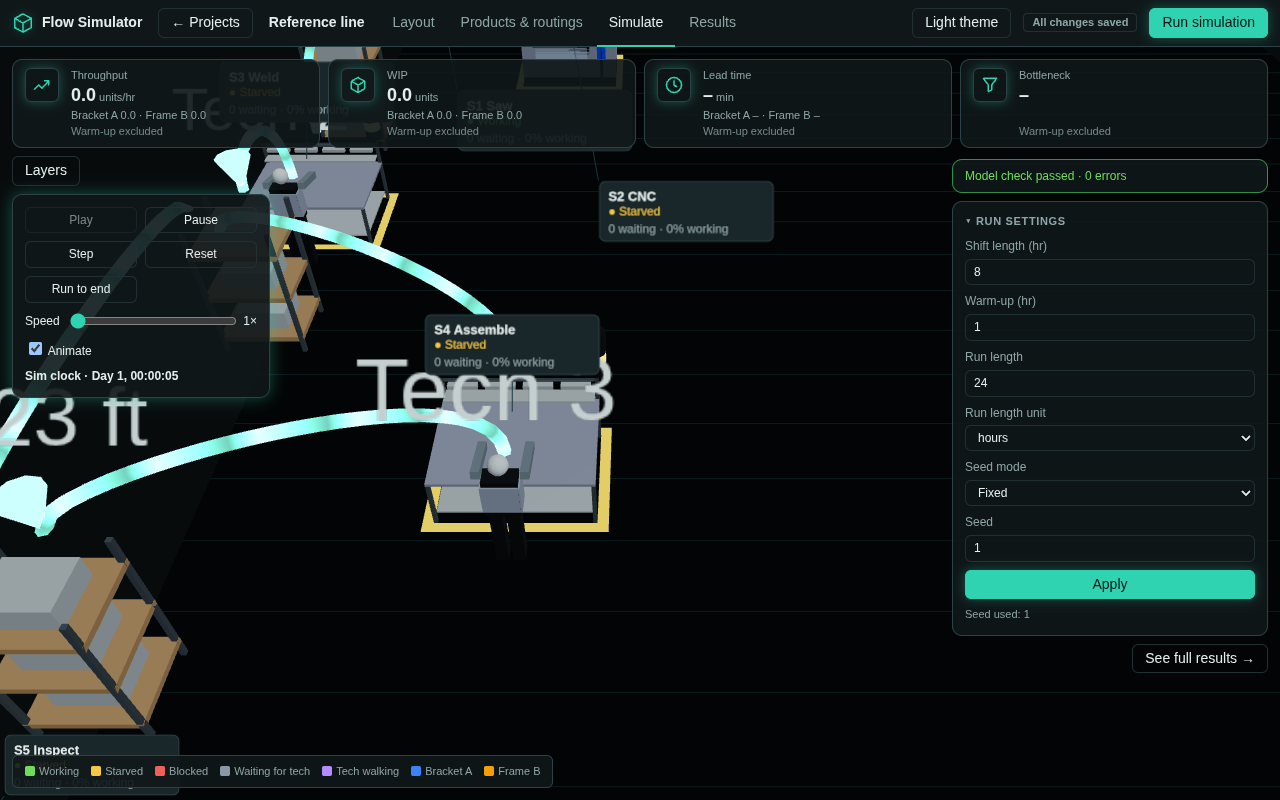
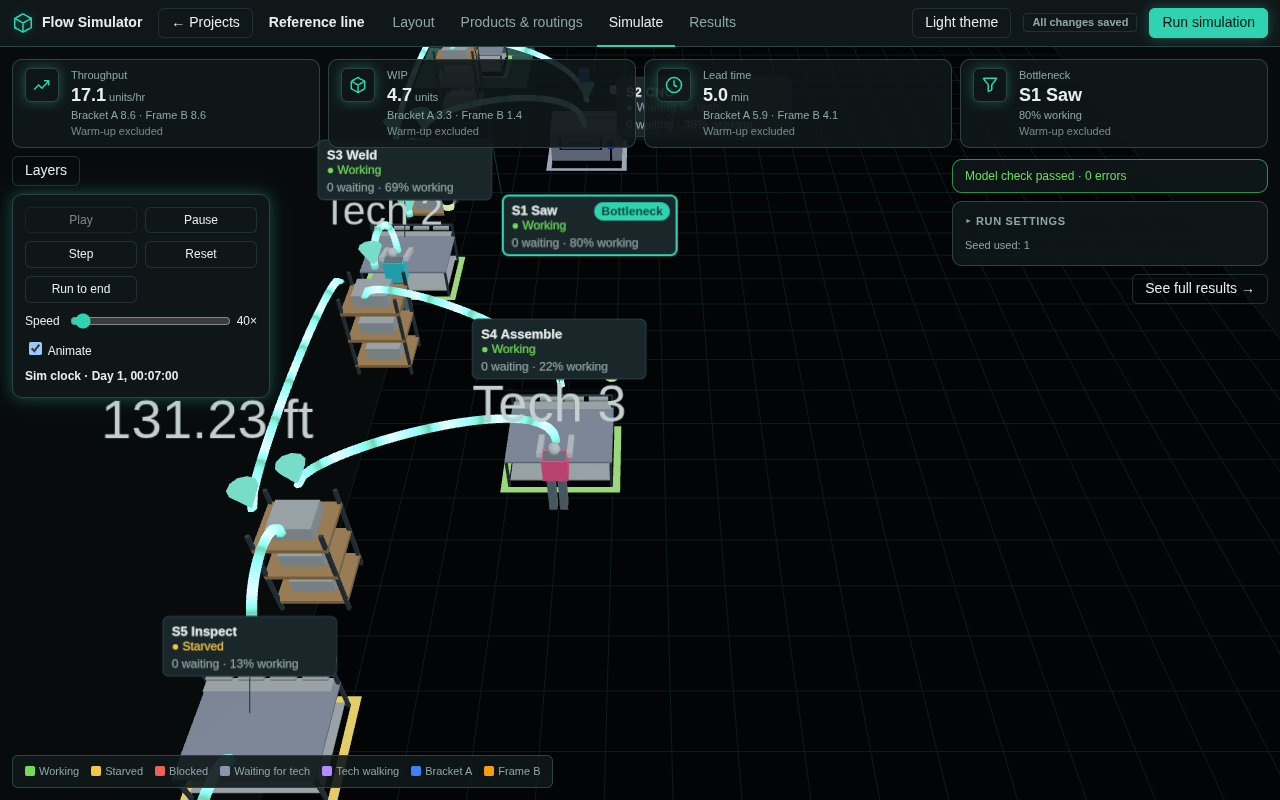
SF-2: per-tech vest colour from a theme palette, lighter body neutrals, new screenshots

diff --git a/apps/web/src/simulation/SF-2.test.ts b/apps/web/src/simulation/SF-2.test.ts
@@ -2,7 +2,8 @@ import { describe, expect, it } from 'vitest';
 import { createEditorStore } from '../layout/editorStore';
 import { buildLineGeometry } from './partTracks';
 import { createTechTracks } from './techTracks';
-import { figureTriangleCount, limbAngles } from './techFigure';
+import { figureTriangleCount, limbAngles, techColor } from './techFigure';
+import { dark, light } from '../ui/tokens';
 
 /** One bench, two stations 12 m apart, `n` techs all assigned to the first bench. */
 function setup(n: number) {
@@ -43,6 +44,25 @@ function inside(
   const lz = -dx * sn + dz * c;
   return Math.abs(lx) < e.footprint.width / 2 && Math.abs(lz) < e.footprint.length / 2;
 }
+
+describe('SF-2: technician colours', () => {
+  it('distinct techs get distinct, run-stable vest colours from the theme palette', () => {
+    for (const theme of [dark, light]) {
+      const cols = [0, 1, 2, 3].map((i) => techColor(theme.scene.techs, i));
+      expect(new Set(cols).size).toBe(4);
+      expect(cols).toEqual([0, 1, 2, 3].map((i) => techColor(theme.scene.techs, i)));
+      expect(
+        theme.scene.techs.every((c) => !Object.values(theme.state).some((s) => s.strong === c)),
+      ).toBe(true);
+    }
+    const { geometry, techs } = setup(3);
+    expect(
+      createTechTracks(geometry, techs)
+        .at(0)
+        .map((p) => p.order),
+    ).toEqual([0, 1, 2]);
+  });
+});
 
 describe('SF-2: technician figure at the bench', () => {
   it('AC1: a figure is within 1,500 triangles', () => {
@@ -108,12 +128,17 @@ describe('SF-2: technician figure at the bench', () => {
         expect(Math.hypot(poses[i]!.x - poses[j]!.x, poses[i]!.z - poses[j]!.z)).toBeGreaterThan(
           0.5,
         );
-    // Along the front edge: all at the same distance from the bench, same heading.
-    const d = poses.map((p) => Math.hypot(p.x - bench.position.x, p.z - bench.position.y));
-    const along = poses.map((p) => (p.x - poses[0]!.x) ** 2 + (p.z - poses[0]!.z) ** 2);
-    expect(along.every((v) => Number.isFinite(v))).toBe(true);
+    // Along the front edge: same offset from the bench in its own frame, different positions along it.
+    const local = poses.map((p) => {
+      const dx = p.x - bench.position.x;
+      const dz = p.z - bench.position.y;
+      const c = Math.cos(bench.rotation);
+      const sn = Math.sin(bench.rotation);
+      return { x: dx * c + dz * sn, z: -dx * sn + dz * c };
+    });
+    for (const l of local) expect(l.z).toBeCloseTo(local[0]!.z, 6);
+    expect(new Set(local.map((l) => l.x.toFixed(3))).size).toBe(3);
     expect(new Set(poses.map((p) => p.heading.toFixed(6))).size).toBe(1);
-    expect(Math.max(...d) - Math.min(...d)).toBeLessThan(1.2);
   });
 
   it('AC5: poses are a pure function of sim time, so animation off/on restores them', () => {

diff --git a/apps/web/src/simulation/TechLayer.tsx b/apps/web/src/simulation/TechLayer.tsx
@@ -4,7 +4,7 @@ import * as THREE from 'three';
 import { TextLabel } from '../layout/FloorScene';
 import type { RunSession } from './runSession';
 import { getTheme } from '../ui/themeStore';
-import { createFigureGeometries, FIGURE, limbAngles } from './techFigure';
+import { createFigureGeometries, FIGURE, limbAngles, techColor } from './techFigure';
 
 const BODY_HEIGHT = 1.7;
 const LABEL_HEIGHT = 1.1;
@@ -55,7 +55,7 @@ function TechFigures({ session, ids }: { session: RunSession; ids: string[] }) {
     const { head, torso, vest, arm, leg } = refs;
     if (!head.current || !torso.current || !vest.current || !arm.current || !leg.current) return;
     const poses = new Map(session.techPoses(session.now).map((p) => [p.techId, p]));
-    const { state, scene } = getTheme();
+    const { scene } = getTheme();
     ids.forEach((id, i) => {
       const pose = poses.get(id);
       if (!pose) {
@@ -82,10 +82,7 @@ function TechFigures({ session, ids }: { session: RunSession; ids: string[] }) {
       swing(arm.current!, 2 * i + 1, FIGURE.armX, FIGURE.shoulderY, limbs.armR);
       swing(leg.current!, 2 * i, -FIGURE.legX, FIGURE.hipY, limbs.legL);
       swing(leg.current!, 2 * i + 1, FIGURE.legX, FIGURE.hipY, limbs.legR);
-      vest.current!.setColorAt(
-        i,
-        color.set(pose.state === 'walking' ? state.walking.strong : state.waiting.strong),
-      );
+      vest.current!.setColorAt(i, color.set(techColor(scene.techs, pose.order)));
     });
     for (const m of [head, torso, vest, arm, leg]) {
       m.current!.instanceMatrix.needsUpdate = true;
@@ -97,9 +94,9 @@ function TechFigures({ session, ids }: { session: RunSession; ids: string[] }) {
     // The vest's colour comes per instance; its material stays white so it isn't tinted twice.
     (vest.current.material as THREE.MeshStandardMaterial).color.setRGB(1, 1, 1);
     paint(head.current, scene.parts.accent);
-    paint(torso.current, scene.parts.dark);
-    paint(arm.current, scene.parts.frame);
-    paint(leg.current, scene.parts.dark);
+    paint(torso.current, scene.parts.frame);
+    paint(arm.current, scene.parts.accent);
+    paint(leg.current, scene.parts.frame);
   });
 
   const { scene } = getTheme();

diff --git a/apps/web/src/simulation/techTracks.ts b/apps/web/src/simulation/techTracks.ts
@@ -4,6 +4,8 @@ import type { LineGeometry, Pt } from './partTracks';
 export interface TechPose {
   techId: string;
   name: string;
+  /** Position in the project's technician list: picks the tech's colour. */
+  order: number;
   x: number;
   z: number;
   state: 'walking' | 'standing';
@@ -33,6 +35,7 @@ export interface TechInfo {
 
 interface Track {
   info: TechInfo;
+  order: number;
   /** Station it stands at before its first recorded walk; changed by `seed`. */
   baseId: string | undefined;
   /** Walks in time order; between them the tech stands where the last one ended. */
@@ -47,8 +50,12 @@ export function createTechTracks(geometry: LineGeometry, techs: readonly TechInf
   // A tech with no station has nowhere to be drawn.
   const tracks = new Map<string, Track>(
     techs
-      .filter((info) => info.homeId !== undefined)
-      .map((info) => [info.id, { info, baseId: info.homeId, walks: [], cursor: 0 }]),
+      .map((info, order) => ({ info, order }))
+      .filter(({ info }) => info.homeId !== undefined)
+      .map(({ info, order }) => [
+        info.id,
+        { info, order, baseId: info.homeId, walks: [], cursor: 0 },
+      ]),
   );
   // Techs sharing a bench take fixed spots along its front edge, so nobody overlaps and the
   // spot doesn't change while others walk away.
@@ -115,7 +122,7 @@ export function createTechTracks(geometry: LineGeometry, techs: readonly TechInf
         while (i < walks.length && walks[i]!.t <= t) i++;
         tr.cursor = i;
         const last = walks[i - 1];
-        const base = { techId: tr.info.id, name: tr.info.name };
+        const base = { techId: tr.info.id, name: tr.info.name, order: tr.order };
         if (last && t < last.t1) {
           const dx = last.to.x - last.from.x;
           const dz = last.to.z - last.from.z;

diff --git a/apps/web/src/simulation/techFigure.ts b/apps/web/src/simulation/techFigure.ts
@@ -26,6 +26,11 @@ export function limbAngles(pose: Pick<TechPose, 'state' | 'walked'>): LimbAngles
   return { legL: LEG_SWING * s, legR: -LEG_SWING * s, armL: -ARM_SWING * s, armR: ARM_SWING * s };
 }
 
+/** A tech's vest colour: a fixed palette by order in the project, so it is stable across runs. */
+export function techColor(palette: readonly string[], order: number): string {
+  return palette[order % palette.length]!;
+}
+
 /** Body dimensions (m). The figure is ~1.7 m tall and faces +z at heading 0. */
 export const FIGURE = {
   hipY: 0.85,
@@ -45,7 +50,7 @@ export function createFigureGeometries() {
     head: new THREE.SphereGeometry(0.12, 10, 8).translate(0, FIGURE.headY, 0),
     torso: new THREE.BoxGeometry(0.4, 0.55, 0.22).translate(0, 1.125, 0),
     // The vest sits just proud of the torso so its colour reads from front, back and sides.
-    vest: new THREE.BoxGeometry(0.44, 0.4, 0.26).translate(0, 1.13, 0),
+    vest: new THREE.BoxGeometry(0.46, 0.52, 0.28).translate(0, 1.125, 0),
     arm: limb(0.1, FIGURE.armLength, 0.1),
     leg: limb(0.15, FIGURE.legLength, 0.17),
   };

diff --git a/apps/web/src/ui/tokens.ts b/apps/web/src/ui/tokens.ts
@@ -36,6 +36,8 @@ export interface Theme {
     flow: string;
     /** Equipment parts that aren't the equipment's own colour (materials roles frame, accent, dark). */
     parts: { frame: string; accent: string; dark: string };
+    /** Categorical hi-vis colours for technicians' vests, by order in the project (SF-2). */
+    techs: string[];
     /** Light intensities. */
     ambient: number;
     key: number;
@@ -77,6 +79,7 @@ export const light: Theme = {
     label: '#374151',
     flow: '#475569',
     parts: { frame: '#8a929c', accent: '#d7dbe0', dark: '#2b2f36' },
+    techs: ['#e8590c', '#0b7285', '#c2255c', '#5c940d', '#e0a800', '#3b5bdb'],
     ambient: 1.2,
     key: 2,
   },
@@ -124,6 +127,7 @@ export const dark: Theme = {
     label: '#b9cecf',
     flow: '#2f9d8a',
     parts: { frame: '#6f7f88', accent: '#b9c6cb', dark: '#161d21' },
+    techs: ['#ff922b', '#3bc9db', '#f06595', '#94d82d', '#ffd43b', '#748ffc'],
     ambient: 0.9,
     key: 1.6,
   },

diff --git a/docs/stories/SF-2.md b/docs/stories/SF-2.md
@@ -30,4 +30,5 @@ _Added by the lead or builder during the story: design decisions, open questions
 - _Lead (2026-11-26):_ sprint 9 "Shop floor in 3D" (product owner, 2026-11-26). Load the `frontend-design` skill and add a Design section to the PR. Colours come from the active theme (UI-9). ADR-0014 budget: draw calls in the low tens, ≤ 275k visible triangles.
 - _Lead:_ files: `simulation/TechLayer.tsx`, `simulation/techTracks.ts`. Prototype: `operator` + `poseOperator` in `models.js` (simplify: fewer segments, no glasses).
 - _Lead (2026-11-26):_ from the SF-1 review (#184): the `operator` anchor sits 0.45 m in front of the +z edge, the same side as the default output port, so a tech can stand on an outgoing conveyor. Decide where techs stand here; the TypeEditor default label ignores params (automatic types say "Workbench").
-- _Builder (SF-2):_ no tech colour exists in the schema, so the vest takes the state colour from the theme (waiting / walking) as the old capsule did. Stand spot = the `operator` anchor (in front of the bench, outside the footprint), shifted along the front edge by 0.7 m per tech sharing the bench (fixed slots from `stationIds`). The output-port overlap from the SF-1 review is not addressed: a follow-up (needs the port side).
+- _Builder (SF-2):_ no tech colour in the schema (lead decision, review of #190): the vest takes a stable colour from the fixed categorical `scene.techs` theme palette by the tech's order in `project.technicians` (state colour no longer used). Stand spot = the `operator` anchor (in front of the bench, outside the footprint), shifted along the front edge by 0.7 m per tech sharing the bench (fixed slots from `stationIds`). The output-port overlap from the SF-1 review is not addressed: a follow-up (needs the port side).
+- _Builder (SF-2):_ operator spot stays at the anchor on purpose: `techTracks` doesn't know which side the output port is, and moving it is an SF-1/anchor concern. Spread of 0.7 m per tech is not clamped to the bench width (4+ techs can overhang a 2 m bench).
